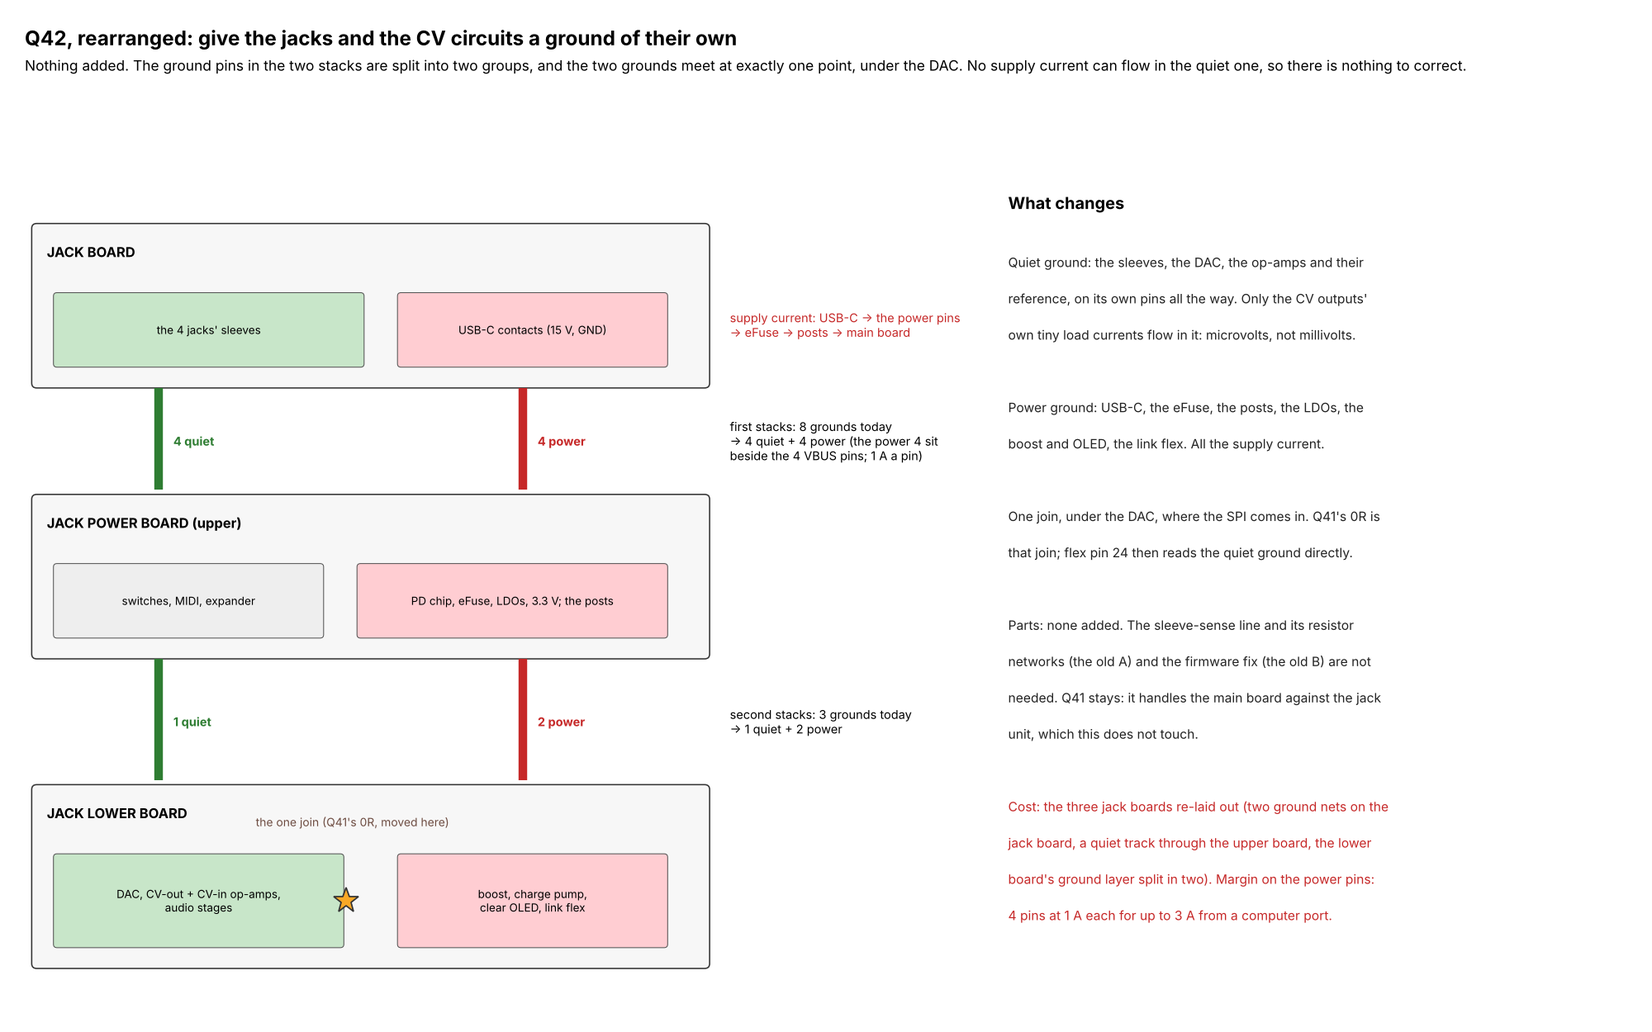
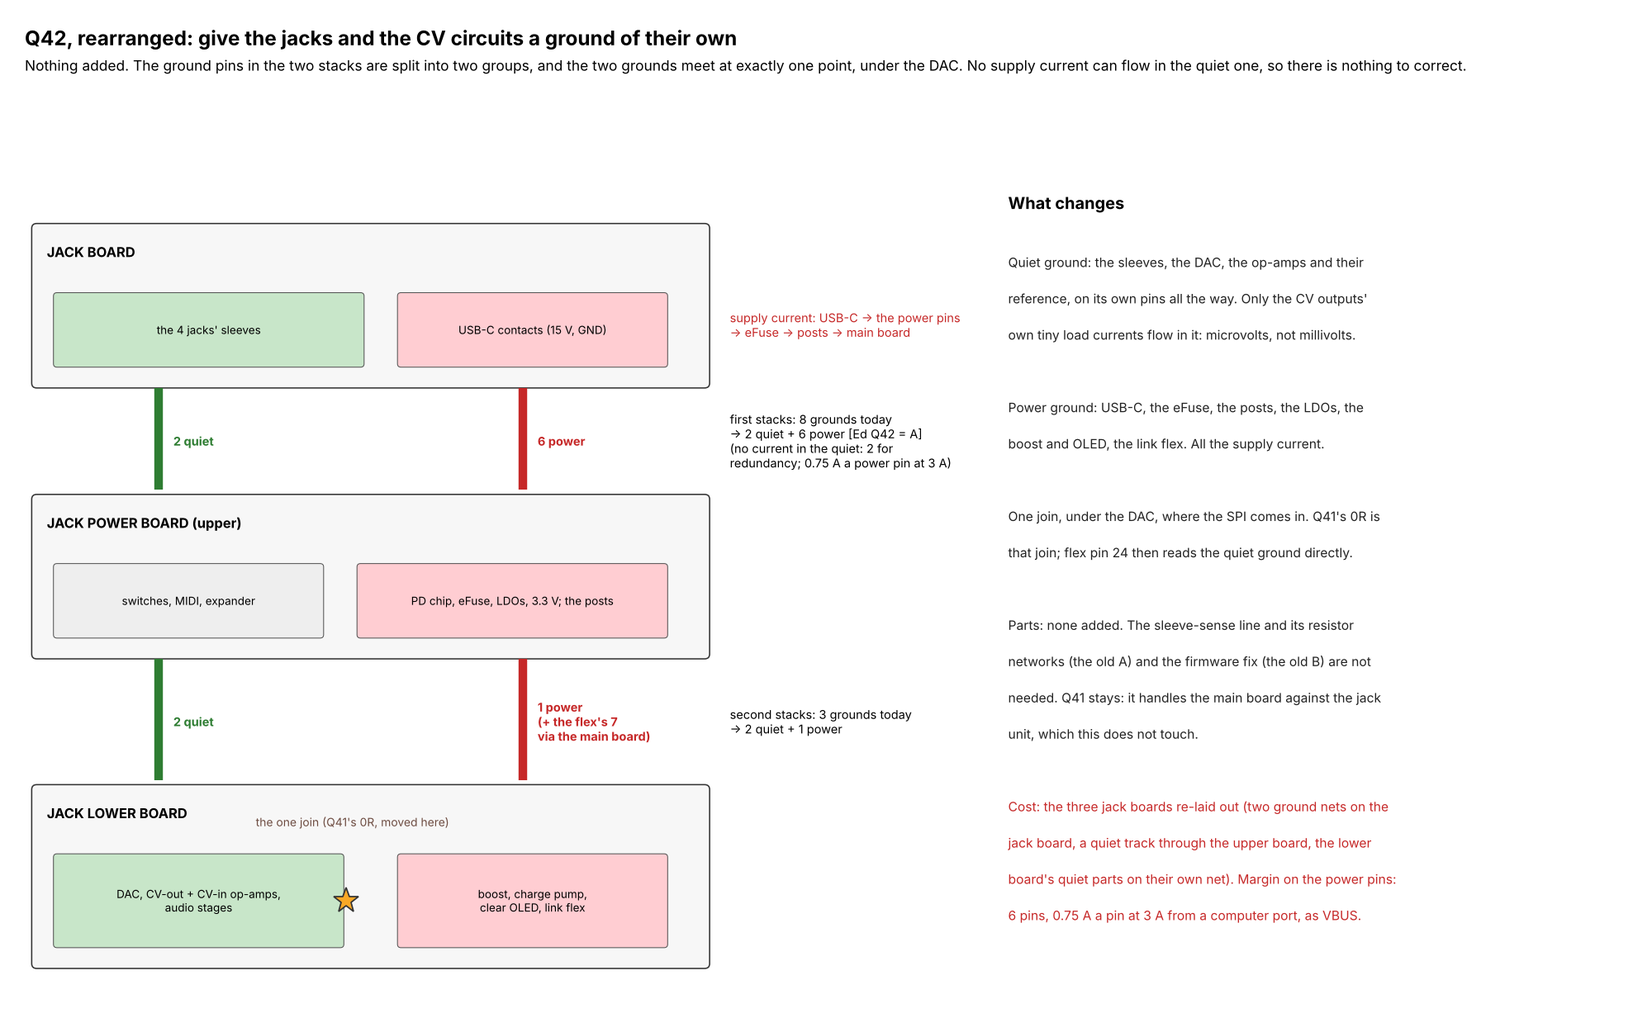
Q42 = A (Ed 16:35): two grounds in the jack unit, QGND (sleeves, DAC, references) joined to GND by one 0R
Jack board: sleeves and both pours on QGND, two stack pins; USB-C GND routed 0.5 wide to
six stack pins. Second stacks: two QGND, one GND. Lower board: the DAC, its caps, VMID and
the audio output's reference on QGND; flex pin 24 carries QGND; R41 is the one join.
Boards are being rebuilt and re-routed (jack board first).

Claude-Session: https://claude.ai/code/session_01WWsCM96FvqnjJZsKaS5e4f

diff --git a/cad/knob-param/knobparam/electronics/kicad/jack-power-board/design.py b/cad/knob-param/knobparam/electronics/kicad/jack-power-board/design.py
@@ -50,10 +50,11 @@ def build():
     _B[0] = "lower"
     # link flex: Hirose FH26W-25S-0.3SHW(60), 25 positions at 0.3 [Q11: 17 signals + 7 grounds; the 25th a ground] [A order: SCK at the
     # far edge, grounds either side of the USB pair, the CV inputs and the audio]
-    # pin 24 = AGND_SENSE [Ed 8 Nov Q41 = A]: this board's analog ground, tied to GND at one point (R 0R at the TLV9064) and carrying
-    # no current, so the H743 reads the ground the CV ins are made on and subtracts it (docs/noise-sweep-2026-11-08.md)
+    # pin 24 = QGND [Ed 8 Nov Q41 = A, Q42 = A]: the quiet ground (the sleeves, the DAC, the CV references), which meets GND at one
+    # point (the 0R at the DAC) and carries no current up the flex, so the H743 reads it as AGND_SENSE and subtracts it from the CV ins
+    # and the audio in (docs/noise-sweep-2026-11-08.md)
     LINK = ["SCK", "GND", "MOSI", "CS_DAC", "CS_OLED", "OLED_DC", "OLED_RES", "SCL", "SDA", "IO_INT", "MIDI_TX", "GND", "DP", "DN", "GND",
-            "CV_IN1", "CV_IN2", "CV_IN3", "GND", "AOUT", "GND", "AIN", "GND", "AGND_SENSE", "GND"]
+            "CV_IN1", "CV_IN2", "CV_IN3", "GND", "AOUT", "GND", "AIN", "GND", "QGND", "GND"]
     part("J", "FH26W-25S-0.3SHW(60)", "jpb:Hirose_FH26W-25S-0.3SHW", {i + 1: n for i, n in enumerate(LINK)}, "connectors",
          lcsc="C2904698", mpn="FH26W-25S-0.3SHW(60)", note="link flex to the main board [Q11]", ref="J6")
     _B[0] = "upper"
@@ -164,16 +165,18 @@ def build():
     # DAC80504 (RTE): 3 CV channels + 1 spare; 0-2.5 V: internal 2.5 V reference divided by 2 (REFDIV high, required below VDD 3.3 V)
     # and gain 2 (GAIN high) [S]; resets to midscale (RSTSEL high: the outputs read +2.5 V, the switches are open anyway); LDAC low
     # (each write updates at once); SDO not used.
+    # [Ed 8 Nov Q42 = A] the DAC, its reference and decoupling, VMID and the audio output's reference sit on QGND, the quiet ground
+    # shared with the jack sleeves; QGND meets GND only at the 0R beside the DAC (below), so no supply current flows in it
     part("U", "DAC80504RTET", "Package_DFN_QFN:QFN-16-1EP_3x3mm_P0.5mm_EP1.7x1.7mm",
-         {1: "VREF", 2: "DAC1", 3: "DAC2", 4: "DAC3", 5: None, 6: "GND", 7: "3V3", 8: "3V3", 9: "3V3", 10: "3V3", 11: "GND",
-          12: "CS_DAC", 13: "SCK", 14: "MOSI", 15: None, 16: "3V3", 17: "GND"}, "dac", lcsc="C2862796", mpn="DAC80504RTET",
+         {1: "VREF", 2: "DAC1", 3: "DAC2", 4: "DAC3", 5: None, 6: "QGND", 7: "3V3", 8: "3V3", 9: "3V3", 10: "3V3", 11: "QGND",
+          12: "CS_DAC", 13: "SCK", 14: "MOSI", 15: None, 16: "3V3", 17: "QGND"}, "dac", lcsc="C2862796", mpn="DAC80504RTET",
          note="1 REF, 2-5 OUT0-3, 6 GND, 7 VDD, 8 GAIN, 9 RSTSEL, 10 REFDIV, 11 LDAC, 12 CS, 13 SCLK, 14 SDI, 15 SDO, 16 VIO, pad GND [S]",
          names={1: "REF", 2: "OUT0", 3: "OUT1", 4: "OUT2", 5: "OUT3", 6: "GND", 7: "VDD", 8: "GAIN", 9: "RSTSEL", 10: "REFDIV",
                 11: "LDAC", 12: "CS", 13: "SCLK", 14: "SDI", 15: "SDO", 16: "VIO", 17: "EP"})
-    C("220nF", "VREF", "GND", "dac", note="REF: 150 nF minimum [S]"); C("1uF", "3V3", "GND", "dac"); C("100nF", "3V3", "GND", "dac")
-    C("100nF", "3V3", "GND", "dac", note="VIO")
+    C("220nF", "VREF", "QGND", "dac", note="REF: 150 nF minimum [S]"); C("1uF", "3V3", "QGND", "dac"); C("100nF", "3V3", "QGND", "dac")
+    C("100nF", "3V3", "QGND", "dac", note="VIO")
     # VMID = VREF x 100/175 = 1.4286 V: the bias for the three CV output stages and the three CV input stages [A]; 14 uA from REF
-    R("75.0k 0.1%", "VREF", "VMID", "dac"); R("100k 0.1%", "VMID", "GND", "dac"); C("1uF", "VMID", "GND", "dac")
+    R("75.0k 0.1%", "VREF", "VMID", "dac"); R("100k 0.1%", "VMID", "QGND", "dac"); C("1uF", "VMID", "QGND", "dac")
     # CV outputs (OPA4197 A/B/C): inverting, Vout = 7 x VMID - 6 x Vdac: DAC 0..2.5 V -> +10..-5 V [A]; 1k inside the loop
     # (feedback taken after it) with Cf from the op-amp output to -in [parts doc: split feedback]; switch after it, outside the loop
     for k in (1, 2, 3):
@@ -187,7 +190,7 @@ def build():
     C("220pF C0G", "AO_O", "AO_N", "audio", note="22 kHz"); R("1.00k", "AO_O", "J4_TIP", "audio")
     part("U", "OPA4197IDR", "Package_SO:SOIC-14_3.9x8.7mm_P1.27mm",
          {1: "CV1_O", 2: "CV1_N", 3: "VMID", 4: "P12V5", 5: "VMID", 6: "CV2_N", 7: "CV2_O", 8: "CV3_O", 9: "CV3_N", 10: "VMID",
-          11: "N12V", 12: "GND", 13: "AO_N", 14: "AO_O"}, "jack circuits", lcsc="C2058532", mpn="OPA4197IDR", note="CV outs A-C, audio out D")
+          11: "N12V", 12: "QGND", 13: "AO_N", 14: "AO_O"}, "jack circuits", lcsc="C2058532", mpn="OPA4197IDR", note="CV outs A-C, audio out D")
     C("100nF 25V", "P12V5", "GND", "jack circuits"); C("100nF 25V", "N12V", "GND", "jack circuits")
     # CV inputs (TLV9064 A/B/C on 3.3 V): 100k in, x -0.113 + 1.590 V: ±12 V -> 2.95..0.23 V, inside the H743's 3.0 V reference
     #   [Ed 8 Nov Q40 = A: 13.3k became 11.3k; 1 cent at the jack = 94 uV at the ADC]; 1 nF: 14 kHz
@@ -200,9 +203,10 @@ def build():
     #   divider, so the 10k/10k/1uF bias parts are gone]; 270 pF: 21 kHz
     C("1uF 50V", "J4_RING", "AI_C", "audio", size="0603"); R("100k", "AI_C", "AI_N", "audio")
     R("28.0k", "AIN", "AI_N", "audio"); C("270pF C0G", "AIN", "AI_N", "audio")
-    # the ground-sense tie [Q41 = A]: 0R from AGND_SENSE (flex pin 24) to GND, in the first old bias resistor's place (same ref, so the
-    # saved placement holds); the other two old refs are skipped so every later ref, and its saved place, stays as it was
-    R("0R", "AGND_SENSE", "GND", "audio", note="single-point tie of the ground-sense line, at the CV-in op-amp [Q41]")
+    # the one join of the two grounds [Q42 = A; was Q41's ground-sense tie]: 0R from QGND to GND, in the first old bias resistor's ref
+    # (the other two old refs are skipped so every later ref stays as it was), where the saved placement has it [A: its exact place is
+    # not critical; only the DAC's own steady supply current (about a milliamp) flows between it and the DAC: microvolts, calibrated out]
+    R("0R", "QGND", "GND", "dac", note="the only join of QGND and GND [Q42]")
     _ref("R"); _ref("C")
     part("U", "TLV9064IPWR", "Package_SO:TSSOP-14_4.4x5mm_P0.65mm",
          {1: "CV_IN1", 2: "CI1_N", 3: "VMID", 4: "3V3", 5: "VMID", 6: "CI2_N", 7: "CV_IN2", 8: "CV_IN3", 9: "CI3_N", 10: "VMID",
@@ -269,8 +273,10 @@ def build():
 
 # the second stacks' pinout [A]: (inner column, outer column), each top to bottom. Power and the left jacks on the left; the I2C, MIDI,
 # USB data and the right jacks on the right (the link flex connector is at x +14.1 on the lower board).
-STACK2 = {"left": (["CV2_S", "J2_TIP", "3V3", "P12V5", "N12V", "GND"], ["CV1_S", "J1_TIP", "BOOST_EN", "BOOST", "VNEG_RAW", "VSYS"]),
-          "right": (["CV3_S", "J3_TIP", "MIDI_TX", "IO_INT", "SCL", "SDA"], ["J4_TIP", "J4_RING", "GND", "DP", "DN", "GND"])}
+# [Ed 8 Nov Q42 = A] two of the three grounds carry QGND (the quiet ground: no current, two pins so one bad contact never leaves the
+# sleeves floating); GND keeps one here and the link flex's seven in parallel through the main board.
+STACK2 = {"left": (["CV2_S", "J2_TIP", "3V3", "P12V5", "N12V", "QGND"], ["CV1_S", "J1_TIP", "BOOST_EN", "BOOST", "VNEG_RAW", "VSYS"]),
+          "right": (["CV3_S", "J3_TIP", "MIDI_TX", "IO_INT", "SCL", "SDA"], ["J4_TIP", "J4_RING", "QGND", "DP", "DN", "GND"])}
 
 
 if __name__ == "__main__":

diff --git a/cad/knob-param/knobparam/electronics/kicad/jack-board/kicad/make_board.py b/cad/knob-param/knobparam/electronics/kicad/jack-board/kicad/make_board.py
@@ -12,15 +12,19 @@ Run with the system python that has pcbnew (KiCad 7.0.11):  /usr/bin/python3 mak
   J1-J4  Thonk PJ366ST at x -16.5, -5.8, +5.8, +16.5 [Q15, Q17]; J1-J3 switchable [Q1, Q2], J4 the audio jack: tip = audio out,
          ring = audio in [Q9, Q10]. Slots [S-lib: KiCad's PJ398SM footprint, which Thonk says the stereo shares; 4ms, GuavTek,
          westlicht, clacktronics, requencer]: T +4.92..+5.21 from the axis (1.43 wide), R -3.35..-3.38 (1.42), S -5.715..-6.48 (1.22);
-         0.35 ring. Sleeve = GND.
+         0.35 ring. Sleeve = QGND [Ed 8 Nov Q42 = A: the quiet ground, see below].
   P1-P8  Harwin P70-5100045 (LCSC C21675240; element14 2664891), SMD pad Ø1.2 [S-dist], at the USB-C board's landing pads.
   H1, H2 XFCN PZ127VS-12-12-H16-4.5-R (LCSC C2840009), 2x6 1.27 mm SMD male, pins along y at x ∓11.15 [v0.42, v0.46 A]; land
          pattern KiCad's PinHeader_2x06_P1.27mm_Vertical_SMD (KiCad library, CC-BY-SA 4.0 with the design exception) [C: check it
          against XFCN's drawing at the pre-quote]. 1 A a pin [S: JLCPCB listing; LCSC says 2 A]: VBUS on 4 pins, GND on 8.
 Header pinout [A] (panel view from the front; pins along y [v0.46]; each column top = nearer the jack tops); the power board's sockets
 mirror it:
-  H1 (x -11.15) inner column (x -9.2): J2_TIP GND J2_RING CC1 VBUS VBUS     outer (x -13.1): J1_TIP GND J1_RING GND GND GND
-  H2 (x +11.15) inner column (x +9.2): J3_TIP GND J3_RING CC2 VBUS VBUS     outer (x +13.1): J4_TIP GND J4_RING GND DP DN"""
+  H1 (x -11.15) inner column (x -9.2): J2_TIP QGND J2_RING CC1 VBUS VBUS    outer (x -13.1): J1_TIP GND J1_RING GND GND GND
+  H2 (x +11.15) inner column (x +9.2): J3_TIP QGND J3_RING CC2 VBUS VBUS    outer (x +13.1): J4_TIP GND J4_RING GND DP DN
+Two grounds [Ed 8 Nov Q42 = A, docs/noise-sweep-2026-11-08.md]: QGND (quiet) = the four sleeves and both copper pours, down two
+stack pins to the jack lower board's DAC and CV op-amps, where it meets GND at one point (a 0R there); GND (power) = the two USB-C
+GND contacts, routed 0.5 wide to six stack pins (the supply current's return; 0.75 A a pin at 3 A from a computer port, as VBUS).
+No supply current flows on this board's pours, so the sleeves sit at the CV circuits' ground."""
 import os, sys, subprocess, json
 import pcbnew
 HERE = os.path.dirname(os.path.abspath(__file__))
@@ -37,9 +41,9 @@ LIB = "jackb"; LIB_DIR = os.path.join(HERE, LIB + ".pretty")
 ORIGIN = (100.0, 100.0)
 BT = 1.6
 RULES = dict(clearance=0.1, track=0.2, min_track=0.1, via_d=0.45, via_drill=0.2, edge=0.25)   # PCBWay standard 4/4 mil, 0.2 drill
-ROUTE_CLASSES = [("Power", 0.2, 0.5, ["VBUS"])]   # VBUS routed 0.5 wide, 0.2 clear; the rest (GND too: its sleeve pads leave the tongues past the ring pads, about 0.6 between pad and edge) at 0.2 wide, 0.15 clear
+ROUTE_CLASSES = [("Power", 0.2, 0.5, ["VBUS", "GND"])]   # VBUS routed 0.5 wide, 0.2 clear; the rest (GND too: its sleeve pads leave the tongues past the ring pads, about 0.6 between pad and edge) at 0.2 wide, 0.15 clear
 FREEROUTING = os.environ.get("FREEROUTING_JAR", "/home/claude/tools/freerouting-2.1.0.jar")
-WIDTHS = {"default": 0.2, "VBUS": 0.5, "GND": 0.4}   # grid router: signals 0.2, VBUS 0.5 (1.5 A a side), GND 0.4 (plus the pours)
+WIDTHS = {"default": 0.2, "VBUS": 0.5, "GND": 0.5, "QGND": 0.4}   # grid router: signals 0.2, VBUS 0.5 (1.5 A a side), GND 0.4 (plus the pours)
 ROUTE_CLEARANCE = 0.15
 
 # ---- numbers from the model (case/params.py, v0.43); check_cad.py compares them with the model ----
@@ -58,8 +62,8 @@ TAB = (5.85, -53.90)                         # [Q16]
 CONTACTS = [("15V_1", "VBUS", -0.8, -51.4), ("15V_2", "VBUS", 0.8, -51.4), ("GND_1", "GND", -0.8, -53.0), ("GND_2", "GND", 0.8, -53.0),
             ("DP", "DP", -4.0, -51.4), ("DN", "DN", 4.0, -51.4), ("CC1", "CC1", -5.0, -53.0), ("CC2", "CC2", 5.0, -53.0)]
 HDR_X, HDR_Y = 11.15, (JY + BODY_Y[0] + JY + BODY_Y[1]) / 2
-HDR_NETS = {"H1": (["J2_TIP", "GND", "J2_RING", "CC1", "VBUS", "VBUS"], ["J1_TIP", "GND", "J1_RING", "GND", "GND", "GND"]),
-            "H2": (["J3_TIP", "GND", "J3_RING", "CC2", "VBUS", "VBUS"], ["J4_TIP", "GND", "J4_RING", "GND", "DP", "DN"])}
+HDR_NETS = {"H1": (["J2_TIP", "QGND", "J2_RING", "CC1", "VBUS", "VBUS"], ["J1_TIP", "GND", "J1_RING", "GND", "GND", "GND"]),
+            "H2": (["J3_TIP", "QGND", "J3_RING", "CC2", "VBUS", "VBUS"], ["J4_TIP", "GND", "J4_RING", "GND", "DP", "DN"])}
 # (inner column = nearer x 0, outer column; each top (jack tops) to bottom (the tab))
 
 
@@ -123,7 +127,7 @@ def comps(hdr_nets):
         role = "audio: tip out, ring in" if i == 4 else "switchable"
         out.append(dict(ref=f"J{i}", sym="PJ366ST", value="PJ366ST", fp="PJ366ST_Slots", pos=kc(jx, JY), rot=0, side="F",
                         pins=[("T", "TIP", "passive", "L"), ("R", "RING", "passive", "L"), ("S", "SLEEVE", "passive", "R")],
-                        nets={"T": f"J{i}_TIP", "R": f"J{i}_RING", "S": "GND"},
+                        nets={"T": f"J{i}_TIP", "R": f"J{i}_RING", "S": "QGND"},
                         fields={"MPN": "PJ366ST", "Manufacturer": "Thonk", "Note": role}))
     for i, (nm, net, px, py) in enumerate(CONTACTS, 1):
         out.append(dict(ref=f"P{i}", sym="SpringContact", value="P70-5100045", fp="Harwin_P70-5100045", pos=kc(px, py), rot=0, side="F",
@@ -237,7 +241,7 @@ def build():
 
 def add_gnd_zones(pcb_path):
     b = pcbnew.LoadBoard(pcb_path)
-    gnd = b.FindNet("GND")
+    gnd = b.FindNet("QGND")   # [Q42 = A] the pours are the quiet ground (the sleeves); GND is routed
     pts = [kc(x, y) for x, y in outline()]
     for layer in (pcbnew.F_Cu, pcbnew.B_Cu):
         z = pcbnew.ZONE(b); z.SetLayer(layer); z.SetNet(gnd)

diff --git a/tools/studies/quiet_ground_q42_sketch.py b/tools/studies/quiet_ground_q42_sketch.py
@@ -31,14 +31,14 @@ board(2, 38, 66, 16, "JACK POWER BOARD (upper)", [(2, 2, 26, 7, "switches, MIDI,
 board(2, 6, 66, 18, "JACK LOWER BOARD", [(2, 2, 28, 9, "DAC, CV-out + CV-in op-amps,\naudio stages", "#c8e6c9"),
                                           (36, 2, 26, 9, "boost, charge pump,\nclear OLED, link flex", "#ffcdd2")])
 # stacks: quiet pins (green) on the left of each pair, power pins (red) on the right
-for x, col, lab in ((14, QUIET, "4 quiet"), (50, PWR, "4 power")):
+for x, col, lab in ((14, QUIET, "2 quiet"), (50, PWR, "6 power")):
     ax.plot([x, x], [55, 65.5], color=col, lw=6, solid_capstyle="butt")
     ax.text(x + 1.5, 60, lab, fontsize=8.4, color=col, weight="bold", va="center")
-for x, col, lab in ((14, QUIET, "1 quiet"), (50, PWR, "2 power")):
+for x, col, lab in ((14, QUIET, "2 quiet"), (50, PWR, "1 power\n(+ the flex's 7\nvia the main board)")):
     ax.plot([x, x], [25, 37.5], color=col, lw=6, solid_capstyle="butt")
     ax.text(x + 1.5, 31, lab, fontsize=8.4, color=col, weight="bold", va="center")
-ax.text(70.5, 60, "first stacks: 8 grounds today\n→ 4 quiet + 4 power (the power 4 sit\nbeside the 4 VBUS pins; 1 A a pin)", fontsize=8.4, va="center")
-ax.text(70.5, 31, "second stacks: 3 grounds today\n→ 1 quiet + 2 power", fontsize=8.4, va="center")
+ax.text(70.5, 60, "first stacks: 8 grounds today\n→ 2 quiet + 6 power [Ed Q42 = A]\n(no current in the quiet: 2 for\nredundancy; 0.75 A a power pin at 3 A)", fontsize=8.4, va="center")
+ax.text(70.5, 31, "second stacks: 3 grounds today\n→ 2 quiet + 1 power", fontsize=8.4, va="center")
 ax.plot([32.6], [12.5], marker="*", ms=18, color="#f9a825", mec="#333")
 ax.text(33.2, 20.2, "the one join (Q41's 0R, moved here)", fontsize=8, ha="center", color="#6d4c41")
 ax.text(70.5, 72, "supply current: USB-C → the power pins\n→ eFuse → posts → main board", fontsize=8.4, color=PWR, va="center")
@@ -62,8 +62,8 @@ lines = [("Quiet ground: the sleeves, the DAC, the op-amps and their", None),
          ("", None),
          ("Cost: the three jack boards re-laid out (two ground nets on the", "#c62828"),
          ("jack board, a quiet track through the upper board, the lower", "#c62828"),
-         ("board's ground layer split in two). Margin on the power pins:", "#c62828"),
-         ("4 pins at 1 A each for up to 3 A from a computer port.", "#c62828")]
+         ("board's quiet parts on their own net). Margin on the power pins:", "#c62828"),
+         ("6 pins, 0.75 A a pin at 3 A from a computer port, as VBUS.", "#c62828")]
 for k, (t, c) in enumerate(lines):
     ax.text(x0, 78 - k * 3.75, t, fontsize=9, color=c or "#222")
 fig.savefig(sys.argv[1] if len(sys.argv) > 1 else "quiet-ground-q42.png")

diff --git a/docs/noise-sweep-2026-11-08.md b/docs/noise-sweep-2026-11-08.md
@@ -99,6 +99,19 @@ input ripple stays on board L and does not travel down the posts into the jack b
 Not proposed: isolating USB inside the module. With power on the same USB-C it needs an isolated 12 W converter as well as a USB
 isolator chip; there is no room for that in the jack unit [A]. An external USB isolator does the same job when a computer is used.
 
+## Q42 = A [Ed 16:35]: two grounds in the jack unit (the rearrangement below)
+As built into the netlists (8 Nov):
+- **QGND (quiet):** the four sleeves and both copper pours of the jack board; first stacks H1 inner 2 and H2 inner 2 (2 pins: no
+  current, two so one bad contact never leaves the sleeves floating); a track through the upper board; second stacks left inner 6
+  and right outer 3; on the lower board the DAC (GND, LDAC, pad), its REF and supply caps, VMID's 100k and 1 µF, the audio
+  output's + input; link flex pin 24 (read as AGND_SENSE on the main board).
+- **GND (power):** the USB-C GND contacts routed 0.5 wide to six first-stack pins (H1 outer 2, 4, 5, 6; H2 outer 2, 4; 0.75 A a pin
+  at 3 A, as VBUS), second stacks right outer 6, the rest of the lower board, the posts, the flex's other six grounds.
+- **One join:** the 0R (R41) from QGND to GND on the lower board. [A] its exact place is not critical: only the DAC's own steady
+  supply current (about a milliamp) flows between it and the DAC.
+- Refined from the picture as first shown (4 quiet + 4 power, 1 quiet + 2 power) [A]: the quiet ground carries no current, so it
+  needs few pins, and the power side gets the rest (more margin).
+
 ## Q42: the sleeves' ground and the lower board's ground (found while doing Q41)
 Picture: `docs/img/sleeve-sense-q42.png`. A CV is tip minus sleeve. The sleeves (and the USB-C power contacts) are on the jack
 board; the DAC and the CV op-amps are on the jack lower board, two stacks down. The first stacks carry the whole module's current on

diff --git a/docs/main-board-pass-plan-2026-11-07.md b/docs/main-board-pass-plan-2026-11-07.md
@@ -60,7 +60,8 @@ Expected next, one at a time as they come up:
    **Q39 = A [Ed 15:59 "Yeah, that's perfect"]:** TPS62933F (LCSC C5219272) on all three bucks, about 1-2 MHz, set apart; the
    1220's PWM at 100 kHz. The jack board's U6 swapped (same footprint). **Q38 asked again** with the F part: **A [Ed 16:04]**, two TPS62933F straight from 15 V. **Q40 = A [Ed 16:07]:** a TI REF3430 3.0 V reference on VREF+ (`docs/img/adc-reference-q40.png`); the jack board's ranges
    re-set to fit. **Q41 = A [Ed 16:11]:** flex pin 24 becomes AGND_SENSE (`docs/img/ground-sense-q41.png`), read on PC0 (ADC2) with each CV
-   in; pin map re-solved (61 nets, 21 spare). The noise decisions are done; next the CV-out side's ground across the stacks (a check).
+   in; pin map re-solved (61 nets, 21 spare). Then **Q42 = A [Ed 16:35]**: a quiet ground (QGND) for the sleeves and the CV circuits, on its own stack pins, joined to GND
+   once on the lower board (`docs/img/quiet-ground-q42.png`). The three jack boards rebuilt and re-routed.
 3. The RGB emitter part; the VCSEL driver. **Hole found 8 Nov:** the red VCSEL is top-emitting, so it cannot fire through the
    board from the back. RGB: SK6812MINI-E recessed in cut-outs. **Q35 (open):** A drop the red VCSELs, B keep them on the front
    under a thicker race (`docs/main-board-circuit-2026-11-07.md`, `docs/img/ring-lights-q35.png`).

diff --git a/docs/step2-power-board-circuit-2026-11-06.md b/docs/step2-power-board-circuit-2026-11-06.md
@@ -95,9 +95,11 @@ If A, the split I'd use [A, the best of every split of the netlist's blocks that
   ±7.44.
 - **Link flex, FH26W-25S** (KiCad's Hirose FH26-25S footprint; FH26W is the same mechanics [S]), pins [A order, Q11 content]:
   1 SCK, 2 GND, 3 MOSI, 4 CS_DAC, 5 CS_OLED, 6 OLED_DC, 7 OLED_RES, 8 SCL, 9 SDA, 10 IO_INT, 11 MIDI_TX, 12 GND, 13 D+, 14 D-, 15 GND,
-  16-18 CV_IN1-3, 19 GND, 20 AOUT, 21 GND, 22 AIN, 23 GND, **24 AGND_SENSE**, 25 GND [Ed 8 Nov Q41 = A: pin 24 carries this
-  board's analog ground, tied to GND at one point by a 0R at the TLV9064 (in the old audio-bias resistor's place), to an ADC2 pin
-  on the H743, which subtracts it from the CV ins and the audio in].
+  16-18 CV_IN1-3, 19 GND, 20 AOUT, 21 GND, 22 AIN, 23 GND, **24 QGND**, 25 GND [Ed 8 Nov Q41 = A, Q42 = A: pin 24 carries the
+  quiet ground to an ADC2 pin on the H743 (AGND_SENSE there), which subtracts it from the CV ins and the audio in].
+- **Two grounds [Ed 8 Nov Q42 = A]:** QGND (the sleeves, the DAC and its caps, VMID, the audio output's + input) on its own stack
+  pins (first stacks H1 / H2 inner 2; second stacks left inner 6, right outer 3), joined to GND by one 0R (R41) on this board; GND
+  (power) on the rest. No supply current flows in QGND. `docs/noise-sweep-2026-11-08.md`.
 
 ## Tight or open
 

diff --git a/docs/main-board-circuit-2026-11-07.md b/docs/main-board-circuit-2026-11-07.md
@@ -94,8 +94,8 @@ ADC-switch pads take analog only, each SPI / I2C / UART / FDCAN / timer serves o
 1 SCK, 2 GND, 3 MOSI, 4 CS_DAC, 5 CS_OLED, 6 OLED_DC, 7 OLED_RES, 8 SCL, 9 SDA, 10 IO_INT, 11 MIDI_TX, 12 GND, 13 D+, 14 D-, 15 GND,
 16-18 CV_IN1-3, 19 GND, 20 AOUT, 21 GND, 22 AIN, 23 GND, **24 AGND_SENSE**, 25 GND [S jack board circuit, 6 Nov; pin 24 Ed 8 Nov
 Q41 = A].
-- **AGND_SENSE** (pin 24): the jack lower board's analog ground, tied there at one point (a 0R at its TLV9064) and carrying no
-  current. At the H743: 100 Ω + 1 nF C0G to ground like the other ADC pins, and 1 MΩ to ground so it reads 0 with the flex out [A].
+- **AGND_SENSE** (pin 24): the jack unit's quiet ground QGND (the sleeves and the CV circuits' ground, Q42 = A), joined to its power
+  ground at one 0R on the jack lower board and carrying no current. At the H743: 100 Ω + 1 nF C0G to ground like the other ADC pins, and 1 MΩ to ground so it reads 0 with the flex out [A].
   Firmware: ADC1 (CV in / audio in) and ADC2 (AGND_SENSE) in dual simultaneous mode, difference taken per sample [A].
 - SCK and MOSI: 33 Ω in series at the H743 [A]. CS, D/C, RES straight.
 - I2C: the 4.7 kΩ pull-ups and IO_INT's 10 kΩ are on the jack board already [S]; the main board keeps pull-up pads **not fitted**

diff --git a/docs/design-notes.md b/docs/design-notes.md
@@ -57,6 +57,10 @@ catalogue number is assigned here. The main PCB was not edited.
   The firmware reads the 3.3 V through the VBAT channel to correct the Halls, ladder and NTC (they stay on the 3.3 V).
 - **Q41 = A [Ed 16:11]:** link flex pin 24 is **AGND_SENSE**, the jack lower board's analog ground (one 0R tie at its TLV9064),
   read by the H743's ADC2 at the same instant as ADC1 reads a CV in or the audio in, and subtracted. Flex grounds 8 → 7.
+- **Q42 = A [Ed 16:35, "remove or rearrange things so that we don't have the problem"]:** the jack unit has two grounds.
+  **QGND** (the sleeves, the DAC, its reference and VMID, the audio output's reference) runs on its own stack pins (2 in the
+  first stacks, 2 in the second) and meets **GND** (USB-C, eFuse, posts, boost, OLED, flex) at one 0R on the lower board, so no
+  supply current flows between the sleeves and the CV circuits. Flex pin 24 carries QGND (Q41's sense line). No parts added.
 
 ## Ring lights v0.52 (Ed, 8 Nov 2026)
 
